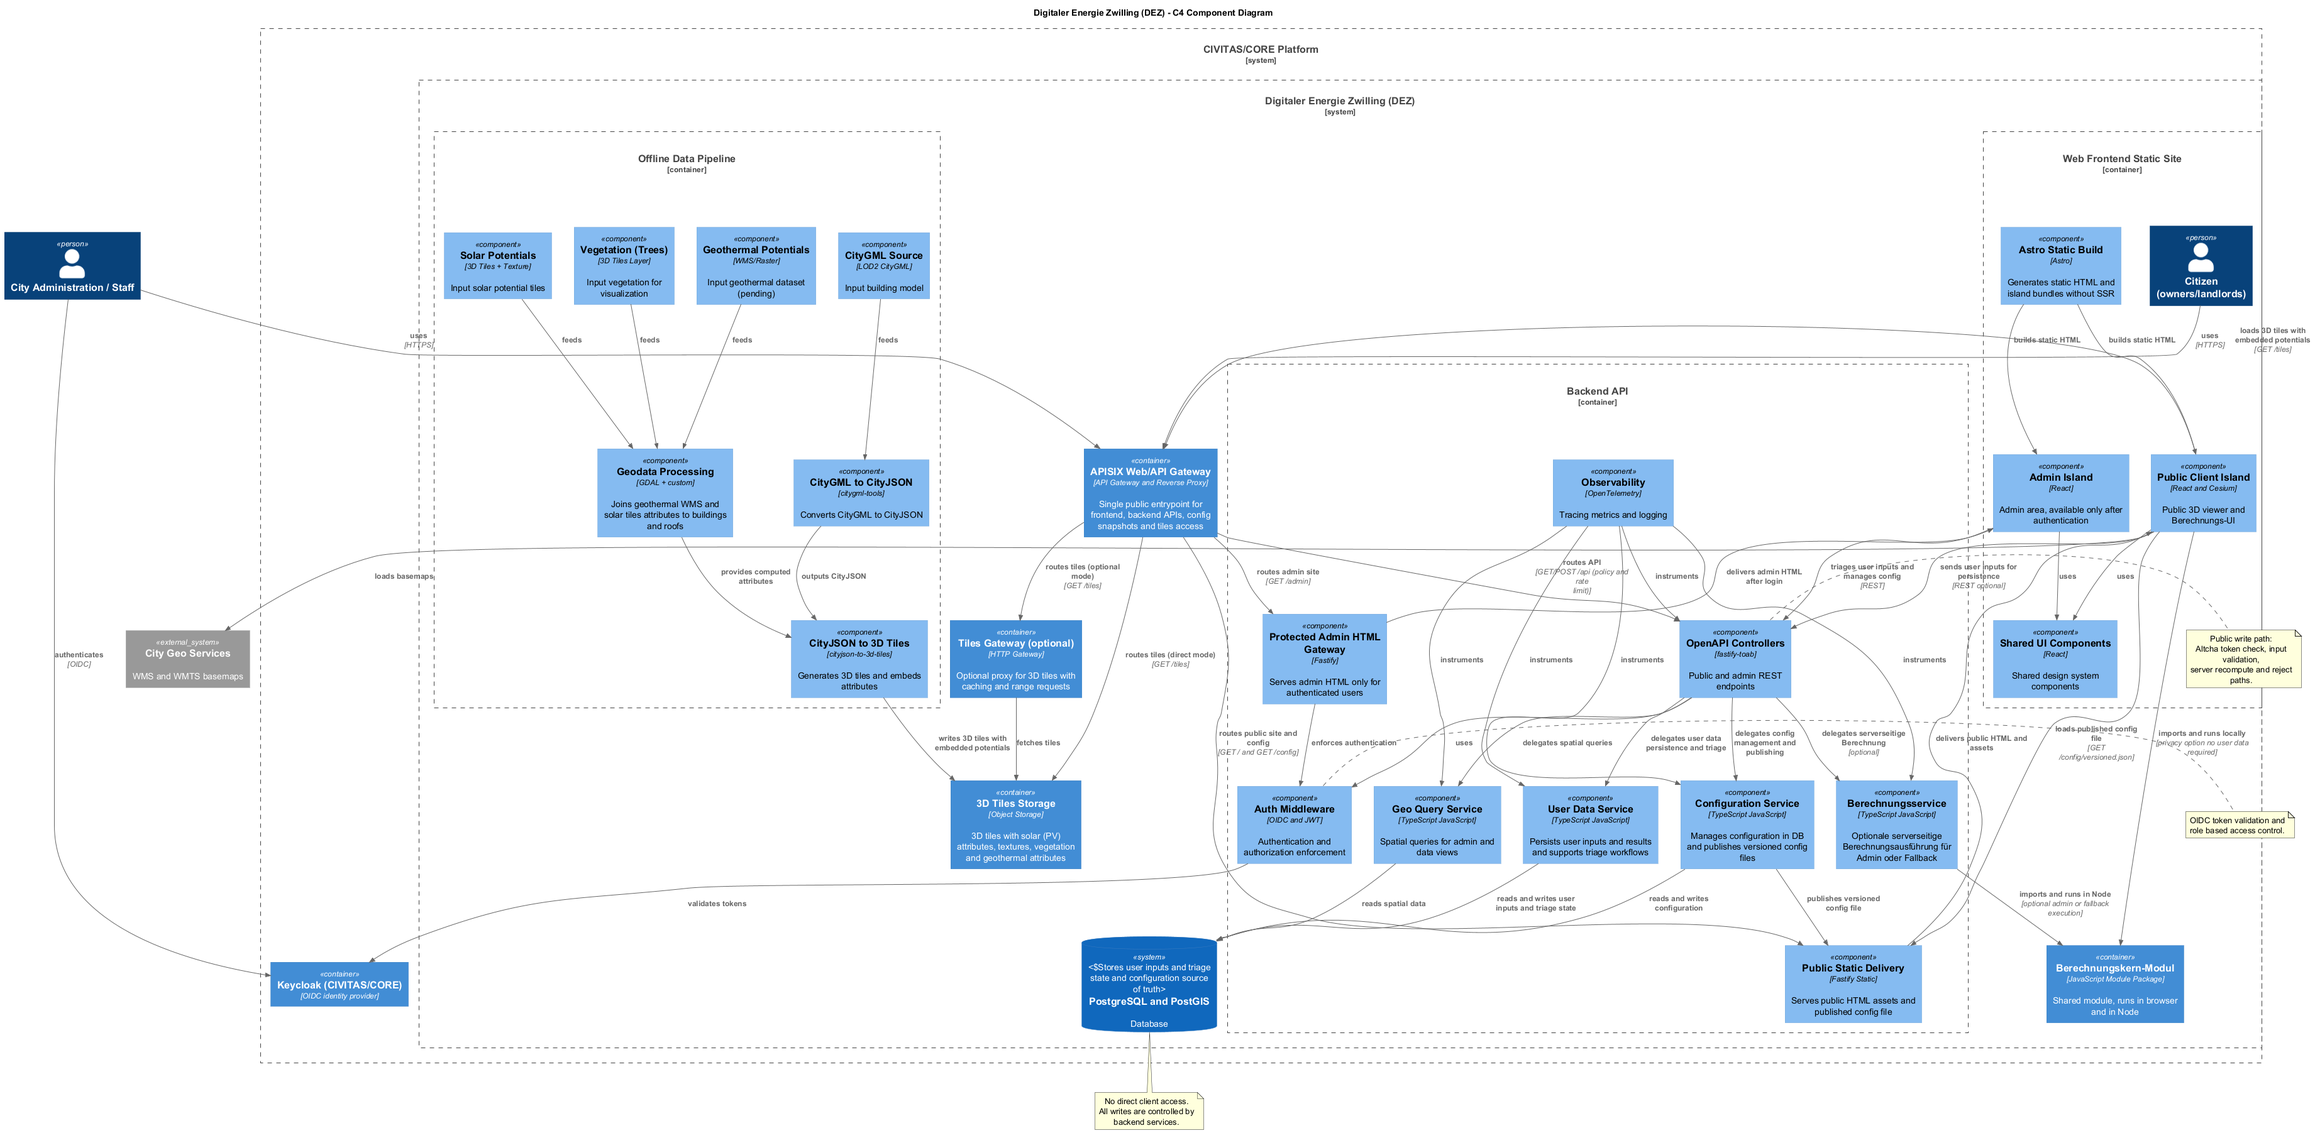
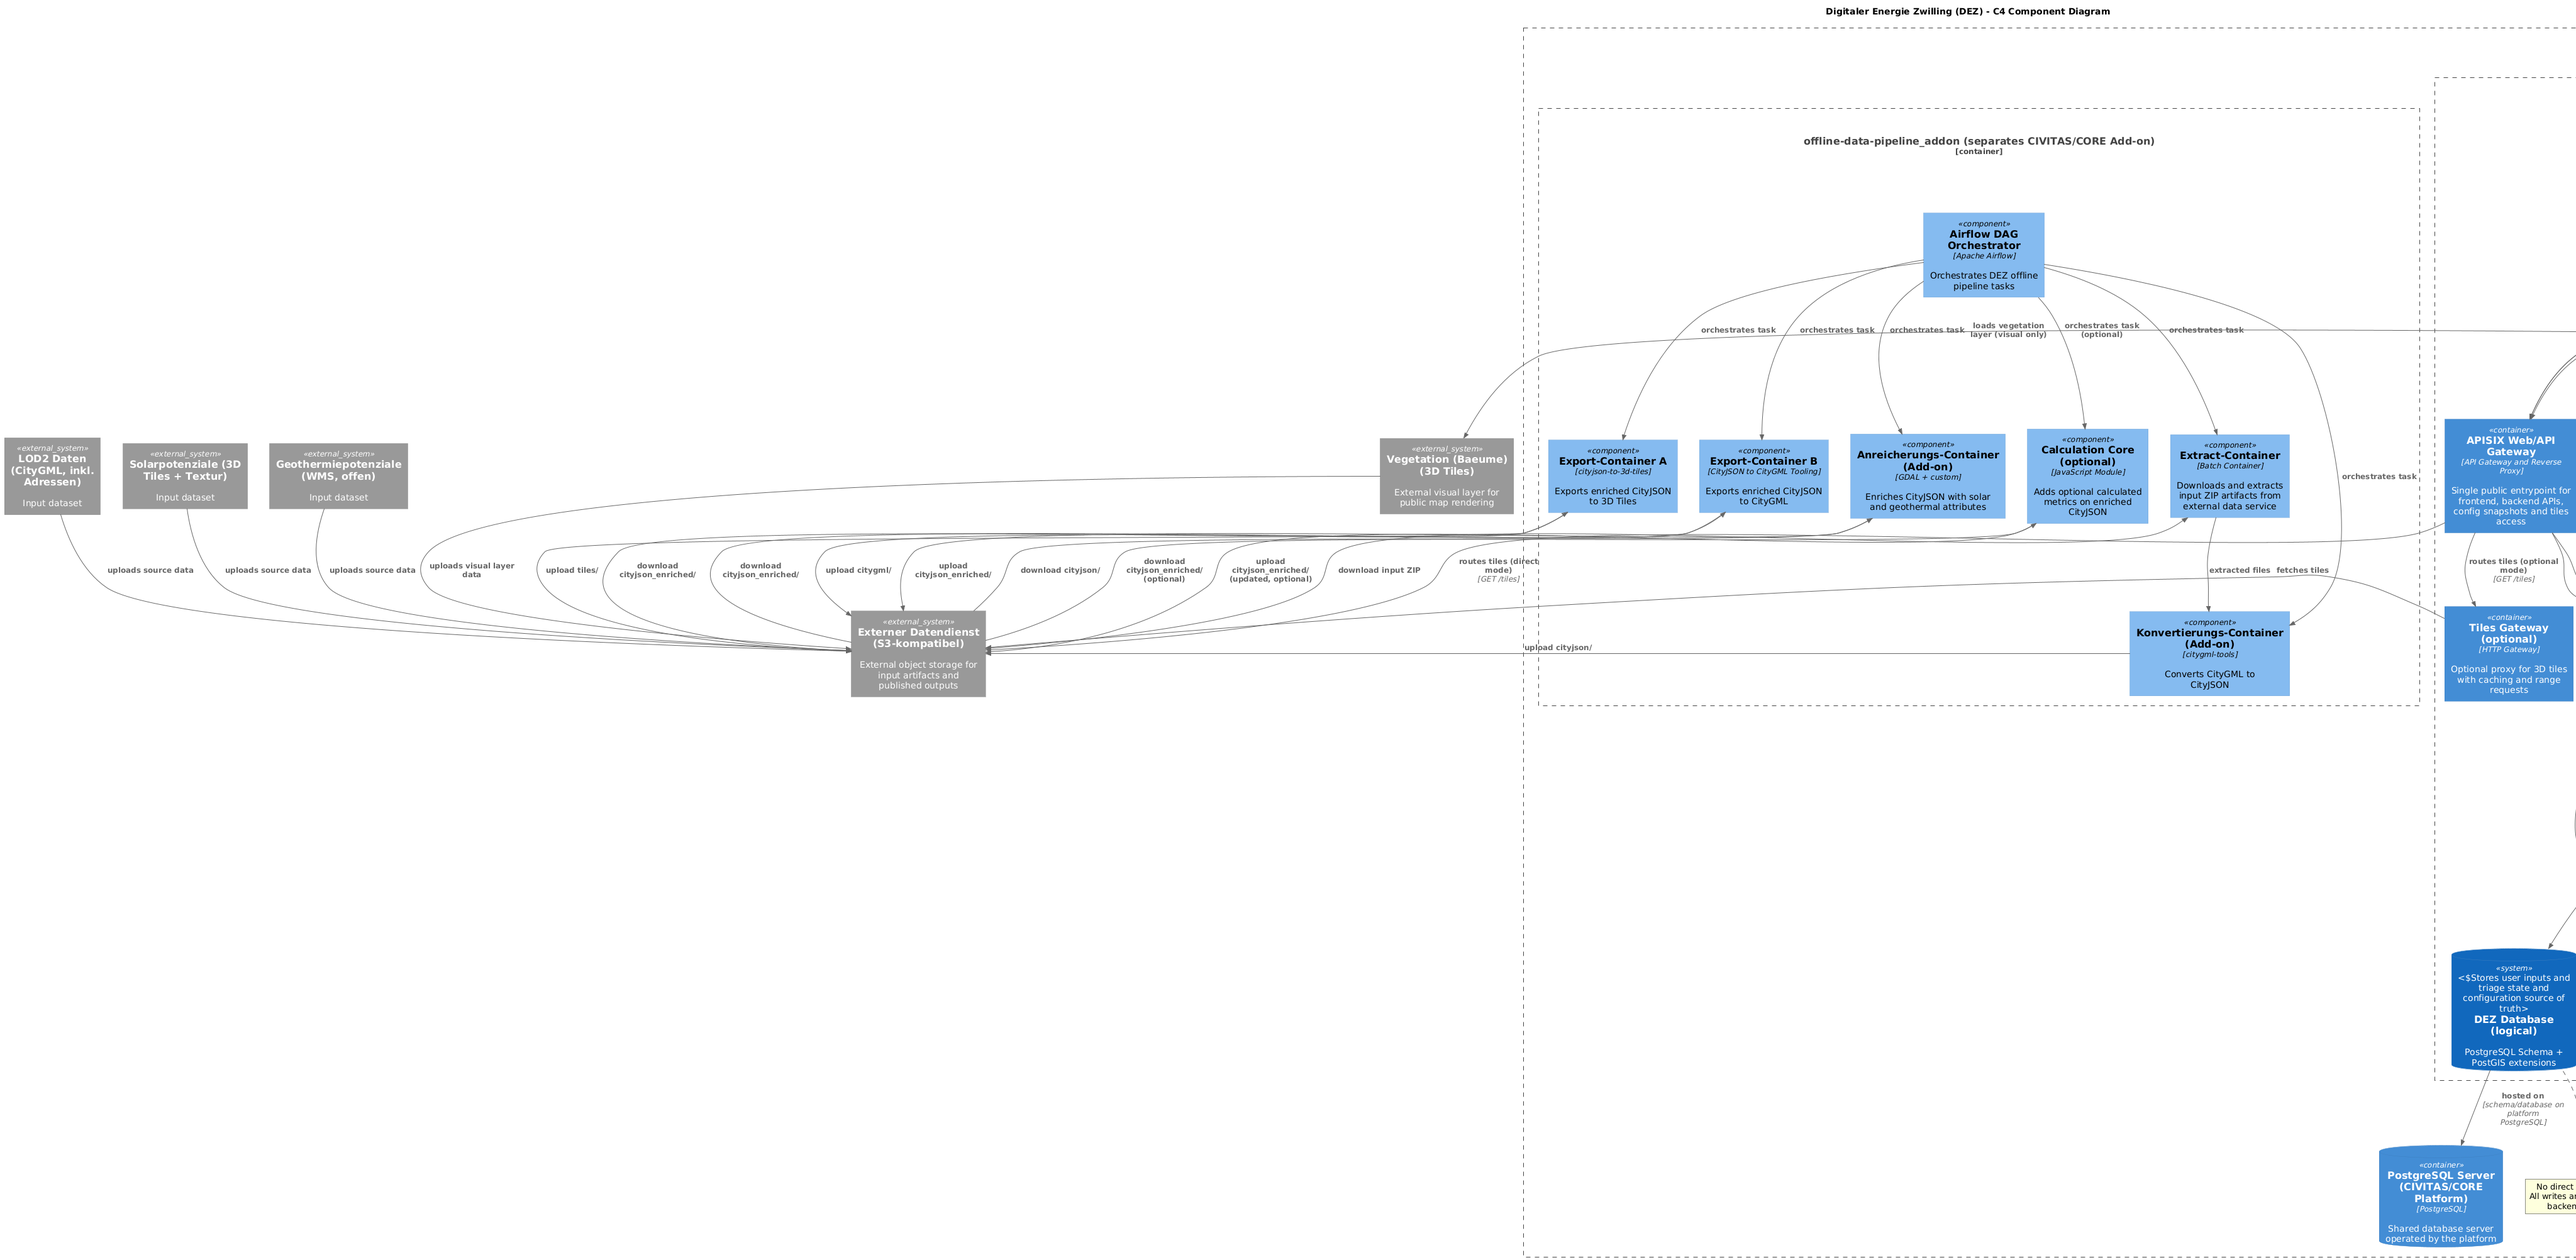
docs: updated c4 diagrams to better match arch

diff --git a/docs/architecture/06-architecture-c4-container.md b/docs/architecture/06-architecture-c4-container.md
@@ -34,9 +34,12 @@ Das System besteht aus folgenden zentralen Containern:
 - Admin Frontend (statische Webanwendung)
 - Backend API
 - Tiles Gateway (optional)
-- 3D Tiles Storage
 - Datenbank
-- Offline Datenpipeline
+- Airflow Offline Datenpipeline (separates CIVITAS/CORE-Add-on)
+
+Externer angebundener Dienst:
+
+- 3D Tiles Storage (S3)
 
 Jeder Container erfüllt eine klar abgegrenzte Aufgabe und ist lose mit den anderen Komponenten gekoppelt.
 
@@ -128,21 +131,24 @@ Tiles-Auslieferung auch ohne Tiles Gateway erfolgen.
 
 ### 3D Tiles Storage
 
-Das 3D Tiles Storage enthält die vorverarbeiteten 3D Tiles.
+Das 3D Tiles Storage ist ein externer S3-kompatibler Datendienst und **kein** Bestandteil des `digital-energy-twin_addon` oder von CIVITAS/CORE.
 
 Eigenschaften:
 - Statische Datenhaltung
-- Enthält Gebäudestrukturen, Adressen aus LOD2, Solarpotenzial-Attribute (inkl. Textur) sowie Vegetation (Bäume)
+- Enthält Gebäudestrukturen, Adressen aus LOD2 sowie Solarpotenzial-Attribute (inkl. Textur)
 - Geothermiepotenziale werden ergänzt, sobald eine belastbare Quelle verfügbar ist; die Abfrage erfolgt priorisiert über Grundwasser, Erdreich, Luft (MVP-Klärung noch offen)
 - Keine Laufzeitänderungen
 
 Die Daten im Storage werden ausschließlich durch die Offline-Datenpipeline erzeugt.
 
+Vegetationsdaten (Bäume) werden nicht in der Offline-Datenpipeline verarbeitet, sondern im Public Client ausschließlich als visuelle Ebene genutzt.
+
 ---
 
 ### Datenbank
 
-Die Datenbank dient als persistente Datenhaltung für dynamische und nutzerspezifische Informationen.
+Die DEZ-Datenbank dient als persistente Datenhaltung für dynamische und nutzerspezifische Informationen.
+Sie ist logisch Teil des `digital-energy-twin_addon` (eigene Schemata/Objekte), läuft physisch jedoch auf dem PostgreSQL-Server der CIVITAS/CORE-Plattform.
 
 Enthält:
 - Nutzereingaben aus Berechnungen
@@ -153,9 +159,9 @@ Die Datenbank enthält **keine statischen Potenzialdaten**.
 
 ---
 
-### Offline Datenpipeline
+### Airflow Offline Datenpipeline (separates Add-on)
 
-Die Offline Datenpipeline ist ein eigenständiger Verarbeitungspfad außerhalb des Laufzeitsystems.
+Die Offline Datenpipeline läuft in CIVITAS/CORE, wird jedoch **nicht** durch das `digital-energy-twin_addon` ausgerollt, sondern durch ein separates Add-on.
 
 Aufgaben:
 - Verarbeitung von CityGML-Daten
@@ -163,7 +169,7 @@ Aufgaben:
 - Anreicherung der Gebäudedaten mit Potenzialattributen
 - Erzeugung der finalen 3D Tiles
 
-Die Pipeline wird unabhängig vom Betrieb des Live-Systems ausgeführt.
+Die Pipeline wird als Airflow-DAG unabhängig vom Betrieb des Live-Systems ausgeführt.
 
 ---
 
@@ -178,8 +184,8 @@ Die Container-Sicht verankert Security by Design als konkrete Zuständigkeit:
 | Public Frontend | Führt Berechnungen standardmäßig lokal aus; übermittelt Nutzerdaten nur optional und explizit ausgelöst. |
 | Admin Frontend | Statischer Admin-Client ohne eigene Serverlogik; sensible Aktionen erfolgen ausschließlich über geschützte Backend-APIs. |
 | Backend API | Führt AuthN/AuthZ auf Basis des von APISIX bereitgestellten Access-Tokens und Rollen durch, validiert Eingaben serverseitig, prüft/verifiziert Public-Write-Payloads und protokolliert sicherheitsrelevante Ereignisse. |
-| Datenbank | Ist nicht öffentlich erreichbar; Zugriffe erfolgen ausschließlich über das Backend mit rollenbasierten Rechten. |
-| 3D Tiles Storage / Tiles Gateway | Dient nur der Auslieferung statischer Artefakte; keine fachliche Schreiblogik aus Public-Laufzeitpfaden. |
+| Datenbank | Logische DEZ-Datenhaltung auf dem Plattform-PostgreSQL; nicht öffentlich erreichbar, Zugriffe ausschließlich über das Backend mit rollenbasierten Rechten. |
+| 3D Tiles Storage / Tiles Gateway | Dient nur der Auslieferung statischer Artefakte; der Storage ist extern angebunden, keine fachliche Schreiblogik aus Public-Laufzeitpfaden. |
 | Offline-Datenpipeline | Läuft getrennt vom Laufzeitsystem, nutzt dedizierte Job-Kontexte und arbeitet mit minimalen Datendienst-Berechtigungen. |
 
 Diese Verantwortungsverteilung deckt insbesondere TA-58 bis TA-64, TA-103 sowie den BSI-Bezug aus TA-97 ab.
@@ -192,6 +198,7 @@ Diese Verantwortungsverteilung deckt insbesondere TA-58 bis TA-64, TA-103 sowie 
 - Der Public Frontend-Client (Hauptzielgruppe) kommuniziert direkt mit:
   - dem Web Gateway (APISIX)
   - optional dem Tiles Gateway oder direkt dem 3D Tiles Storage (über APISIX)
+  - der externen Vegetationsquelle (nur visuelle Darstellung)
   - optional dem Backend (z.B. zur Speicherung von Nutzereingaben)
 
 - Der Admin Frontend-Client (Nebenzielgruppe) kommuniziert ausschließlich über das Backend (über APISIX).
@@ -201,7 +208,7 @@ Diese Verantwortungsverteilung deckt insbesondere TA-58 bis TA-64, TA-103 sowie 
   - die veröffentlichte Konfiguration
   - optional den Berechnungskern
 
-- Die Offline-Datenpipeline schreibt ausschließlich in das 3D Tiles Storage.
+- Die Offline-Datenpipeline schreibt ausschließlich in das 3D Tiles Storage und wird über Airflow im separaten Pipeline-Add-on orchestriert.
 
 ---
 

diff --git a/docs/architecture/07-architecture-c4-components.md b/docs/architecture/07-architecture-c4-components.md
@@ -35,8 +35,8 @@ Das C4 Component Diagramm stellt die folgenden Aspekte dar:
 - den Aufbau des statischen Frontends mit Public- und Admin-Bereich
 - die internen Komponenten des Backends
 - den Berechnungskern als geteiltes Modul
-- die Entkopplung von 3D Tiles, Backend und Datenhaltung
-- die Offline-Datenpipeline zur Erzeugung der 3D Tiles
+- die Entkopplung von 3D Tiles, Backend und Datenhaltung (3D Tiles Storage als externer S3-Dienst)
+- die Airflow-basierte Offline-Datenpipeline als separates CIVITAS/CORE-Add-on zur Erzeugung der 3D Tiles
 
 ![image.png](./attachments/c4-components.png)
 
@@ -238,7 +238,7 @@ Damit sind die Security-by-Design-Prinzipien aus TA-58 bis TA-64 in den Kernkomp
 <a id="offline-datenpipeline"></a>
 ## Offline-Datenpipeline
 
-Die Offline-Datenpipeline ist als eigenständiger Verarbeitungspfad modelliert.
+Die Offline-Datenpipeline ist als eigenständiger Verarbeitungspfad in CIVITAS/CORE modelliert, wird jedoch nicht über das `digital-energy-twin_addon` bereitgestellt.
 
 Aufgaben:
 - Verarbeitung von CityGML-Daten
@@ -247,6 +247,7 @@ Aufgaben:
 - Erzeugung der finalen 3D Tiles
 
 Die Pipeline erzeugt ausschließlich statische Artefakte und hat keinen Zugriff auf Laufzeitdaten.
+Vegetationsdaten werden nicht durch die Pipeline verarbeitet, sondern im Public Client als reine Visualisierungsebene eingebunden.
 
 ---
 
@@ -264,7 +265,7 @@ Die Pipeline erzeugt ausschließlich statische Artefakte und hat keinen Zugriff 
   Admin (Stadtverwaltung / Fachpersonal) → Backend → Konfigurationsdatei → Public Client
 
 - Nutzerdaten:  
-  Public Client → Backend → Datenbank → Admin-Triage (Stadtverwaltung / Fachpersonal)
+  Public Client → Backend → DEZ-Datenbank (logisch im Add-on, physisch auf Plattform-PostgreSQL) → Admin-Triage (Stadtverwaltung / Fachpersonal)
 
 ---
 
@@ -273,5 +274,3 @@ Die Pipeline erzeugt ausschließlich statische Artefakte und hat keinen Zugriff 
 
 Dieses Kapitel beschreibt die **interne Struktur der Container**, nicht deren Deployment.  
 Details zu Betrieb, Skalierung und Infrastruktur werden im Kapitel **Betrieb und Deployment** behandelt.
-
-

diff --git a/docs/requirements/03-technical-requirements.md b/docs/requirements/03-technical-requirements.md
@@ -34,7 +34,7 @@
 30. [29. API-Client-Generierung](#29-api-client-generierung)
 31. [30. Aktualisierung der Basisdaten](#30-aktualisierung-der-basisdaten)
 32. [31. Nachnutzung und White-Labeling](#31-nachnutzung-und-white-labeling)
-33. [32. Offene Klärung: Nutzungsdaten und Tracking](#32-offene-klaerung-nutzungsdaten-und-tracking)
+33. [32. Festlegung: Nutzungsdaten und Tracking](#32-festlegung-nutzungsdaten-und-tracking)
 34. [33. Single Point of Truth für Basisdaten](#33-single-point-of-truth-fuer-basisdaten)
 35. [Abgrenzung](#abgrenzung)
 
@@ -698,12 +698,12 @@ Mapping-Profile und Kommunenprofile müssen unabhängig voneinander versioniert,
 
 ---
 
-<a id="32-offene-klaerung-nutzungsdaten-und-tracking"></a>
+<a id="32-festlegung-nutzungsdaten-und-tracking"></a>
 
-## 32. Offene Klärung: Nutzungsdaten und Tracking
+## 32. Festlegung: Nutzungsdaten und Tracking
 
 **TA-130**  
-Wenn optionale Nutzungsanalysen umgesetzt werden, ist Matomo als bevorzugte Analytics-Lösung vorzusehen.
+Für Nutzungsanalysen ist Matomo verbindlich als Analytics-Lösung einzusetzen.
 
 **TA-131**  
 Analytics-Skripte und Tracking-Endpunkte dürfen erst nach gültigem Opt-in aktiviert werden.
@@ -712,7 +712,7 @@ Analytics-Skripte und Tracking-Endpunkte dürfen erst nach gültigem Opt-in akti
 Vor produktiver Aktivierung von Analytics müssen Eventkatalog, Zweckbindung, Aufbewahrungsfristen, Anonymisierungsregeln, Löschkonzept und Rollen-/Rechtekonzept verbindlich dokumentiert und freigegeben sein.
 
 **TA-133**  
-Bis zur abschließenden Klärung der Analytics-Details müssen Tracking-Funktionen standardmäßig deaktiviert bleiben.
+Tracking-Funktionen müssen ohne gültiges Opt-in standardmäßig deaktiviert bleiben.
 
 ---
 
@@ -748,5 +748,3 @@ Eine DEZ-Instanz muss genau eine Kommune bedienen; Nachnutzung für weitere Komm
 
 Dieses Dokument beschreibt **was technisch erforderlich ist**, nicht jedoch die konkrete Implementierung.  
 Details zur Architektur, zu Komponenten und Datenflüssen werden in den Architekturkapiteln beschrieben.
-
-

diff --git a/docs/requirements/02-functional-requirements.md b/docs/requirements/02-functional-requirements.md
@@ -10,7 +10,7 @@
 6. [Erweiterte Anforderungen](#erweiterte-anforderungen)
 7. [Offene MVP-Klärung: Solarthermie, PV und Geothermie](#offene-mvp-klaerung-solarthermie-pv-und-geothermie)
 8. [Nachnutzung und White-Labeling](#nachnutzung-und-white-labeling)
-9. [Offene Klärung: Nutzungsdaten und Tracking](#offene-klaerung-nutzungsdaten-und-tracking)
+9. [Festlegung: Nutzungsdaten und Tracking](#festlegung-nutzungsdaten-und-tracking)
 10. [Priorisierung (implizit)](#priorisierung-implizit)
 11. [Übergang zu technischen Anforderungen](#uebergang-zu-technischen-anforderungen)
 
@@ -544,12 +544,12 @@ Eine DEZ-Instanz soll fachlich immer genau eine Kommune abbilden; die Nachnutzun
 
 ---
 
-<a id="offene-klaerung-nutzungsdaten-und-tracking"></a>
+<a id="festlegung-nutzungsdaten-und-tracking"></a>
 
-## Offene Klärung: Nutzungsdaten und Tracking
+## Festlegung: Nutzungsdaten und Tracking
 
 **FA-115**  
-Für optionale Nutzungsanalysen ist Matomo als bevorzugte Analytics-Option vorgesehen.
+Für Nutzungsanalysen wird Matomo verbindlich eingesetzt.
 
 **FA-116**  
 Nutzungsdatenanalysen dürfen fachlich nur nach expliziter Einwilligung (Opt-in) erfolgen.
@@ -575,4 +575,3 @@ Der konkrete fachliche Umfang für Tracking (Metriken, Auswertungsziele, Bericht
 
 Die in diesem Dokument beschriebenen fachlichen Anforderungen werden in den **Technischen Anforderungen** konkretisiert.  
 Dort wird festgelegt, **wie** diese Funktionen technisch umzusetzen sind und welche nicht-funktionalen Randbedingungen einzuhalten sind.
-

diff --git a/docs/system/03-security-concept.md b/docs/system/03-security-concept.md
@@ -102,14 +102,14 @@ Dieses Kapitel beschreibt das Sicherheitskonzept des Digitaler Energie Zwilling 
 
 - Keine personenbezogene Pflichtdatenerfassung im Bürgerbereich.
 - Optionale Übermittlung von Eingaben, stets explizit ausgelöst.
-- Notwendiger Cookie für persistente Zustandswiederherstellung bei Wiederbesuchen, Consent für optionale serverseitige Speicherung und optionales Tracking.
+- Notwendiger Cookie für persistente Zustandswiederherstellung bei Wiederbesuchen, Consent für optionale serverseitige Speicherung und Matomo-Tracking.
 - Löschprozess mit eindeutiger Identifikation (z.B. Link/QR im PDF).
 
-### Tracking-Strategie (offene Festlegungen)
+### Tracking-Strategie (verbindliche Festlegung)
 
-- Für optionale Nutzungsanalysen ist Matomo als bevorzugte Analytics-Lösung vorgesehen.
+- Für Nutzungsanalysen wird Matomo verbindlich als Analytics-Lösung eingesetzt.
 - Tracking und Analytics dürfen ausschließlich nach explizitem Opt-in aktiviert werden.
-- Bis zur finalen fachlich-technischen Klärung bleiben Tracking-Funktionen standardmäßig deaktiviert.
+- Ohne gültiges Opt-in bleiben Tracking-Funktionen standardmäßig deaktiviert.
 - Vor produktiver Aktivierung sind Eventkatalog, Zweckbindung, Aufbewahrungsfristen, Anonymisierungsregeln, Löschkonzept und Rollen-/Rechtekonzept verbindlich zu dokumentieren und freizugeben.
 - Diese Leitplanken konkretisieren insbesondere FA-115 bis FA-117 sowie TA-130 bis TA-133.
 

diff --git a/docs/README.md b/docs/README.md
@@ -30,7 +30,7 @@ Die Gliederung folgt der Nummerierung der Dateien im Ordner `docs/`.
 
 - **01** [Systemüberblick – Digitaler Energie Zwilling (DEZ)](system/01-system-overview.md)
 - **02** [User Experience, Nutzerreise & Informationsarchitektur](system/02-user-experience.md)
-- **03** [Sicherheitskonzept](system/03-security-concept.md) (inkl. Abschnitt [„Tracking-Strategie (offene Festlegungen)”](system/03-security-concept.md#tracking-strategie-offene-festlegungen))
+- **03** [Sicherheitskonzept](system/03-security-concept.md) (inkl. Abschnitt [„Tracking-Strategie (verbindliche Festlegung)”](system/03-security-concept.md#tracking-strategie-verbindliche-festlegung))
 - **04** [Fehler- und Ausnahmebehandlung (AppError)](system/04-error-handling.md)
 
 <a id="anforderungen"></a>
